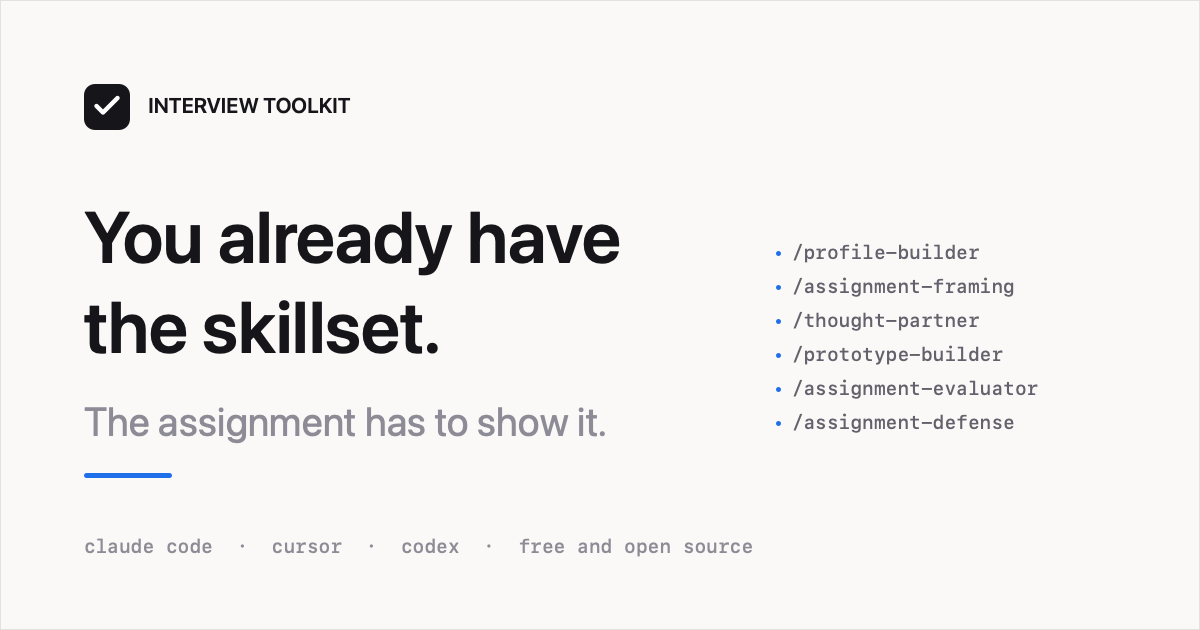
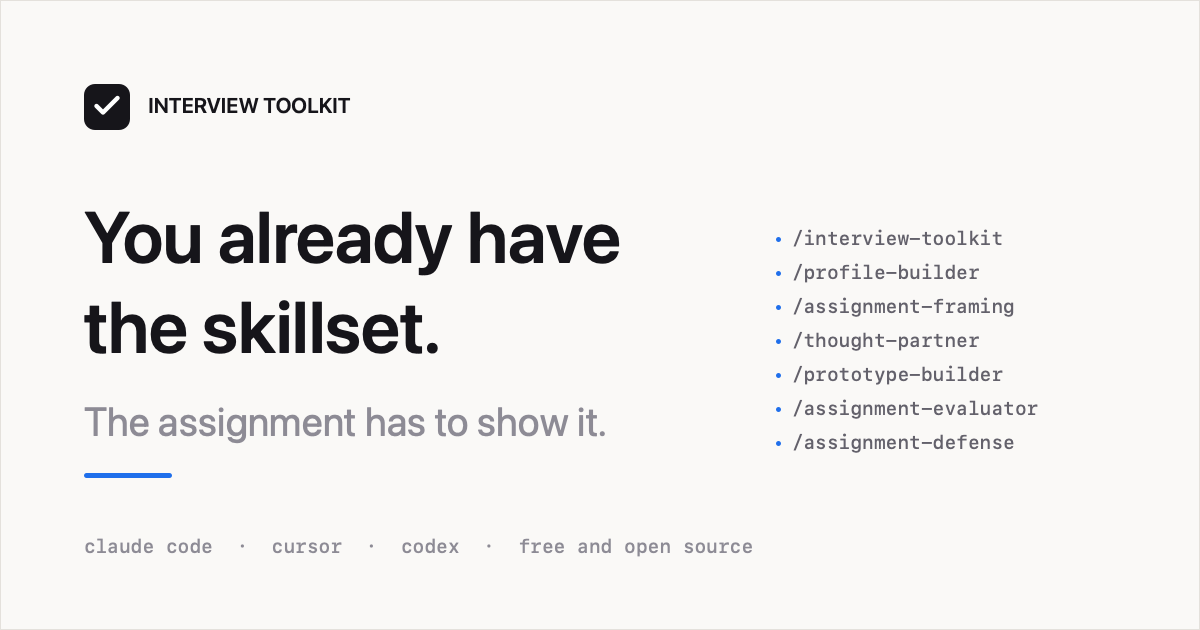
Catch a missing profile at the front door, and fix four follow-ups
The router is the one skill that runs before anything is set up, and it was
the only one that never looked for ~/.interview-toolkit/profile.md. Someone
who installed and asked where to start got routed to a specialist that then
announced it was running generic — too late to be useful. It now checks in
Step 0, offers profile-builder in a line, and never blocks on setup, because
a person with three hours left needs the plan and not a questionnaire.

Also:
- assignment-framing's time-box table was headed "Time remaining" while the
  rows are elapsed share, so it read as "0-15% remaining -> read the brief".
- --dry-run --update still ran git pull, which changes the checkout you asked
  it to only inspect.
- og.png was a skill behind; regenerated from make-og.swift.
- Seven cards in a three-up grid orphaned assignment-defense on its own row.
  The front door now spans the row above the six specialists.

Changed region(s): [[0.6475, 0.3619, 0.8633, 0.7238]]

diff --git a/docs/index.html b/docs/index.html
@@ -216,6 +216,16 @@ section.plain { border-top: none; }
 .step p { margin: 10px 0 0; font-size: .95rem; color: var(--muted); }
 .step p strong { color: var(--ink); font-weight: 620; }
 
+/* The front door spans the row above the six specialists, which is both what it
+   is and what keeps seven cards from leaving an orphan in a three-up grid. */
+.step.wide { grid-column: 1 / -1; display: flex; gap: 28px; align-items: baseline; }
+.step.wide > div:first-child { flex: 0 0 232px; }
+.step.wide p { margin: 0; }
+@media (max-width: 900px) {
+  .step.wide { display: block; }
+  .step.wide p { margin-top: 10px; }
+}
+
 .cards { display: grid; grid-template-columns: repeat(2, 1fr); gap: 20px; }
 @media (max-width: 860px) { .cards { grid-template-columns: 1fr; } }
 
@@ -378,15 +388,17 @@ footer a { color: var(--muted); }
     </div>
 
     <div class="flow">
+      <div class="step wide">
+        <div>
+          <span class="num">START HERE IF UNSURE</span>
+          <code>/interview-toolkit</code>
+        </div>
+        <p>The front door. It asks where you are in the process and how much time you actually have, then <strong>routes you to the smallest useful skill</strong> — so you don't have to learn a workflow the night before something is due.</p>
+      </div>
       <div class="step">
         <span class="num">FIRST, ONCE</span>
         <code>/profile-builder</code>
         <p>A ten-minute interview covering <strong>what you've actually done</strong> and where your skill doesn't yet show up on paper. Everything else reads it. Without it the toolkit is generic; with it, it knows your patterns.</p>
-      </div>
-      <div class="step">
-        <span class="num">START HERE IF UNSURE</span>
-        <code>/interview-toolkit</code>
-        <p>A single front door that asks where you are in the process and how much time you have, then <strong>routes you to the smallest useful skill</strong>. No need to learn the workflow under deadline pressure.</p>
       </div>
       <div class="step">
         <span class="num">STEP 1</span>

diff --git a/docs/make-og.swift b/docs/make-og.swift
@@ -90,6 +90,7 @@ NSBezierPath(roundedRect: NSRect(x: margin, y: 152, width: 88, height: 5),
 // about what this is than any abstract shape would.
 let mono = NSFont.monospacedSystemFont(ofSize: 19, weight: .medium)
 let skills = [
+    "/interview-toolkit",
     "/profile-builder",
     "/assignment-framing",
     "/thought-partner",
@@ -98,7 +99,7 @@ let skills = [
     "/assignment-defense",
 ]
 let listX = 776.0
-var listY = 366.0
+var listY = 380.0
 for name in skills {
     accent.setFill()
     NSBezierPath(ovalIn: NSRect(x: listX, y: listY + 8, width: 5, height: 5)).fill()

diff --git a/interview-toolkit/SKILL.md b/interview-toolkit/SKILL.md
@@ -3,9 +3,9 @@ name: interview-toolkit
 description: >
   Use this skill as the first entry point whenever someone has installed Interview Toolkit but is
   not sure which skill to run, says they need help with an interview assignment, or asks what to do
-  next in an interview process. It identifies the user's stage, time available, and deliverable,
-  then routes to the smallest useful part of the toolkit. It does not replace the specialist skills;
-  it gets the person into the right one quickly.
+  next in an interview process. It checks whether their profile and rubric are set up, identifies
+  their stage, time available, and deliverable, then routes to the smallest useful part of the
+  toolkit. It does not replace the specialist skills; it gets the person into the right one quickly.
 ---
 
 # Interview Toolkit
@@ -14,6 +14,35 @@ description: >
 
 Be the front door, not another layer of process. A person under interview pressure should not have to
 learn seven commands before getting help.
+
+## Step 0 — Check the setup, silently
+
+Before asking anything, look for `~/.interview-toolkit/profile.md`.
+
+This matters here more than anywhere else in the toolkit. Most people arriving at this skill have
+just installed and have no profile, and every specialist skill they get routed to will run generic
+and say so — which is the wrong moment to find out. You are the one place that can catch it before
+it costs them anything.
+
+**If the profile is missing**, say so in one line alongside the routing question, not as a separate
+gate:
+
+> "Quick note before we start: you don't have a profile yet, so the rest of the toolkit will run
+> generic. `/profile-builder` takes about ten minutes and makes everything after it specific to you.
+> Worth doing now if you have the time — if you're against a deadline, we'll skip it and go."
+
+Then continue to Step 1 regardless. **Never block on setup.** Someone with three hours left does not
+need a questionnaire; they need the plan. If they're short on time, note that they can run it later
+and move on without mentioning it again.
+
+**If the profile exists**, read it. Two fields change your routing:
+
+- **Discipline** — confirm the matching `~/.interview-toolkit/rubrics/<discipline>.md` exists. If it
+  doesn't, mention it once and offer to create one from `_template.md`, because every skill you
+  route to will fall back to generic dimensions without it.
+- **Directness preference** — carry it into how you speak here, same as everywhere else.
+
+Don't recite the profile back at them. This step should be invisible when everything is in place.
 
 ## Step 1 — Establish the stage
 
@@ -63,3 +92,6 @@ one of those four outcomes.
 
 Clear, calm, and decisive. The user is here because the process is unfamiliar or time-constrained;
 reduce choices instead of adding them.
+
+Match the profile's `Directness preference` if one is set. It changes wording, never the routing or
+the honesty about how much time something takes.

diff --git a/assignment-framing/SKILL.md b/assignment-framing/SKILL.md
@@ -32,7 +32,11 @@ reasonable inference.
 
 Time-box mode produces a sequence the person can follow, not just a proportional allocation:
 
-| Time remaining | Required output |
+Percentages are elapsed share of the budget, so with four hours the first row ends at 0:36. Convert
+them to actual clock times for the person — a plan they can follow beats a plan they have to do
+arithmetic on.
+
+| Elapsed | Required output |
 | --- | --- |
 | 0–15% | Read brief; identify the thesis, hard constraints, and one research question that changes the answer. |
 | 15–35% | Research only what supports the thesis; stop once the open questions are answered. |
